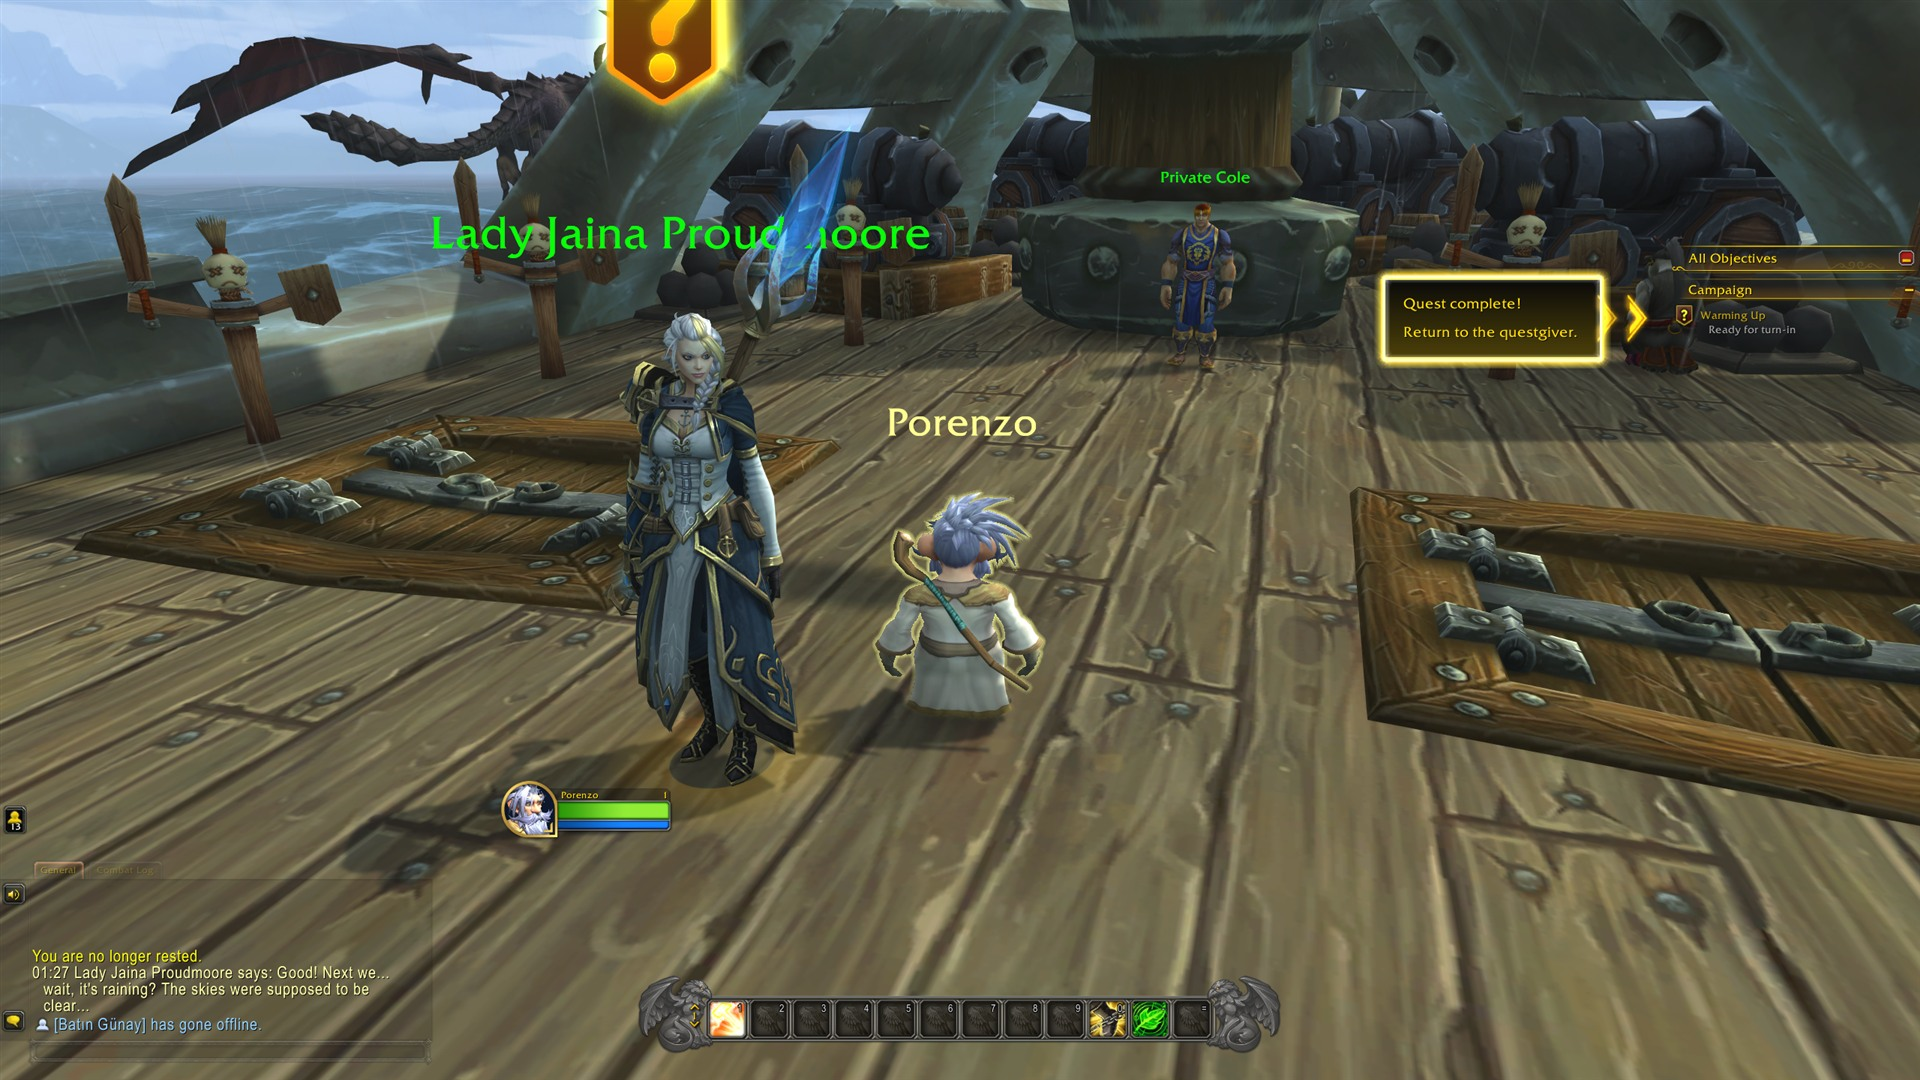
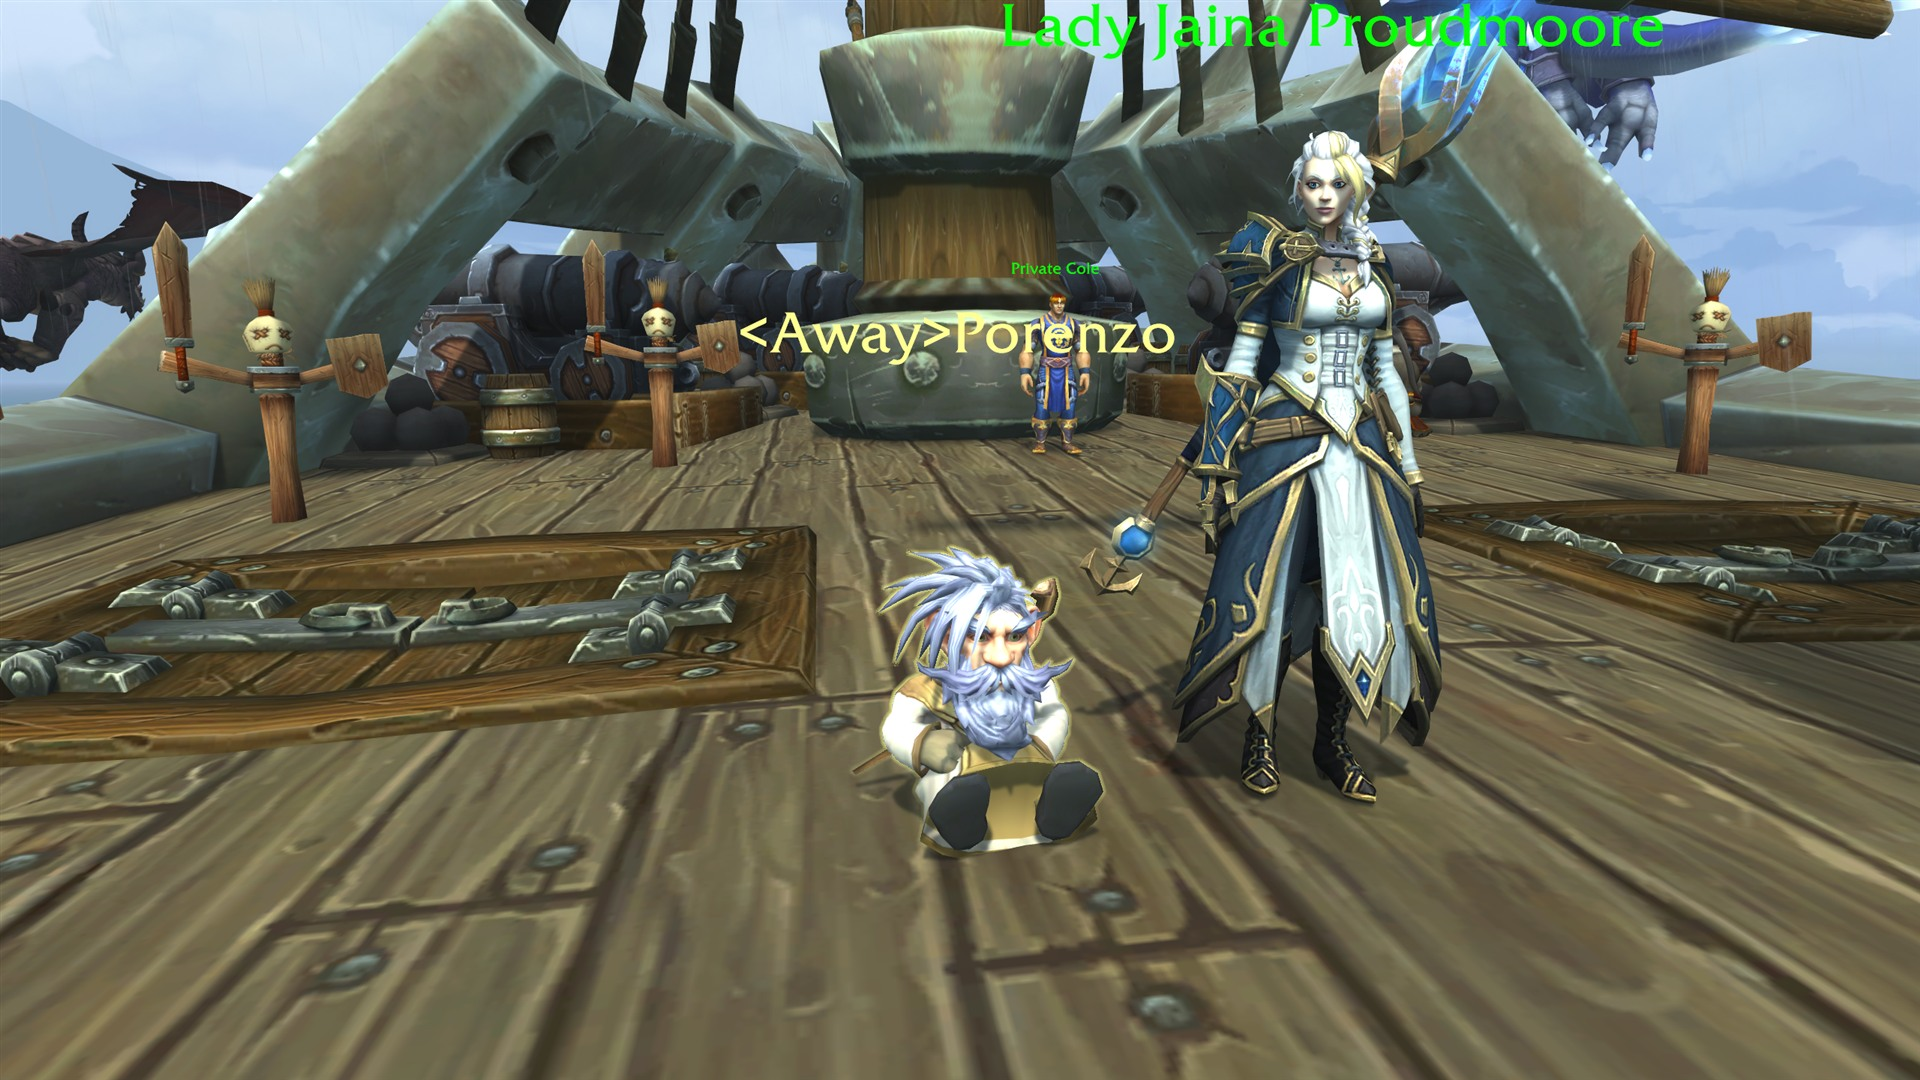
feat: report GPU memory, and a better on/off comparison
Video memory exhaustion is the failure mode that does not look like itself.
Past the per-process budget the driver evicts to system memory, every frame
waits on PCIe, and frame times explode while the GPU sits nearly idle --
which reads exactly like a slow neural pass and is nothing of the sort.
Measured in one session on the same build and scene: 40 fps at 24 ms with
memory comfortable, 6.5 fps at 153 ms with the card 91% full and 745 MB
spilled, with a process GPU counter reporting 8.8% utilisation throughout.

The Status page now shows used against budget, above the frame breakdown,
because when this fires the breakdown below it is a red herring.

The on/off comparison is retaken on character models rather than deck
planking -- hair, beard, cloth and a face, which is what neural rendering
is for. The caption says plainly that it also darkens the image and
flattens facial contrast, because it does.

diff --git a/src/manager/main.cpp b/src/manager/main.cpp
@@ -721,6 +721,44 @@ int WINAPI wWinMain(HINSTANCE inst, HINSTANCE, PWSTR, int show) {
                "in this tool can raise it.");
         }
 
+        // Video memory, before the frame breakdown, because when this is the
+        // problem the breakdown below is a red herring: it shows a huge GPU
+        // wait that is not GPU work at all, but the driver paging evicted
+        // resources over PCIe. Diagnosing that from frame times alone is
+        // near-impossible, so it gets said outright.
+        if (s.vramBudgetMb > 0) {
+          const bool over = s.vramUsedMb > s.vramBudgetMb;
+          const float ratio = static_cast<float>(s.vramUsedMb) /
+                              static_cast<float>(s.vramBudgetMb);
+          ImGui::Dummy(ImVec2(0.0f, 12.0f));
+          if (g_fonts.caption) ImGui::PushFont(g_fonts.caption);
+          ImGui::TextDisabled("GPU MEMORY");
+          if (g_fonts.caption) ImGui::PopFont();
+          ImGui::PushStyleColor(ImGuiCol_PlotHistogram,
+                                over        ? Rgb(g_colors.fail)
+                                : ratio > 0.9f ? Rgb(g_colors.warn)
+                                               : Rgb(g_colors.accent));
+          char label[64];
+          std::snprintf(label, sizeof(label), "%u / %u MB", s.vramUsedMb, s.vramBudgetMb);
+          ImGui::ProgressBar(ratio > 1.0f ? 1.0f : ratio, ImVec2(-1.0f, 20.0f), label);
+          ImGui::PopStyleColor();
+          if (over || ratio > 0.92f) {
+            ImGui::TextColored(Rgb(over ? g_colors.fail : g_colors.warn),
+                               "%s", over
+                                   ? "Out of GPU memory. This is almost certainly why the "
+                                     "overlay is slow."
+                                   : "GPU memory is nearly full.");
+            Hint("Past the budget the driver moves resources to system memory "
+                 "and every frame waits on the PCIe bus. It shows up below as a "
+                 "huge GPU wait even though the GPU is nearly idle, so it is "
+                 "easy to mistake for a slow neural pass.\n\n"
+                 "Close what else is using the card -- browsers, streaming and "
+                 "capture tools, and anything compositing a second monitor -- "
+                 "and lower the game's texture quality. Nothing in this tool "
+                 "can make room.");
+          }
+        }
+
         // Where the frame went, as a stacked bar. A frame rate on its own tells
         // you something is slow; this tells you which of four different things
         // it is, and they have four different answers.

diff --git a/src/common/core/GpuProfile.h b/src/common/core/GpuProfile.h
@@ -21,6 +21,25 @@ struct GpuInfo {
 // guess selects the wrong neural runtime variant.
 GpuArch ArchitectureFromDeviceId(uint32_t vendorId, uint32_t deviceId);
 
+// How much video memory this process is allowed, and how much it is using.
+//
+// Worth reporting because running past the budget is the single worst thing
+// that can happen to this pipeline, and it does not look like what it is: the
+// driver evicts resources to system memory, every frame then waits on PCIe
+// transfers, and the result is enormous frame times with the GPU almost idle.
+// That reads exactly like a slow neural pass and is nothing of the sort.
+//
+// Measured against the sidecar's own adapter. Windows reports a per-process
+// budget rather than the card's total, and the budget shrinks as other
+// applications take memory -- which is the case worth catching, because
+// nothing this program does causes it and no setting here fixes it.
+struct VideoMemory {
+  uint64_t budgetBytes = 0;
+  uint64_t usedBytes = 0;
+  bool OverBudget() const { return budgetBytes > 0 && usedBytes > budgetBytes; }
+};
+std::optional<VideoMemory> QueryVideoMemory(LUID adapter);
+
 // Spec GPU matrix: 4K on Blackwell, 1440p on Ada, nothing else supported.
 uint32_t DefaultInternalHeight(GpuArch arch);
 

diff --git a/src/common/core/GpuProfile.cpp b/src/common/core/GpuProfile.cpp
@@ -110,4 +110,28 @@ std::optional<GpuInfo> DetectPrimaryGpu() {
   return std::nullopt;
 }
 
+std::optional<VideoMemory> QueryVideoMemory(LUID adapter) {
+  ComPtr<IDXGIFactory4> factory;
+  if (FAILED(CreateDXGIFactory1(IID_PPV_ARGS(&factory)))) return std::nullopt;
+
+  ComPtr<IDXGIAdapter1> adapter1;
+  if (FAILED(factory->EnumAdapterByLuid(adapter, IID_PPV_ARGS(&adapter1)))) {
+    return std::nullopt;
+  }
+  ComPtr<IDXGIAdapter3> adapter3;
+  if (FAILED(adapter1.As(&adapter3))) return std::nullopt;
+
+  // LOCAL is the memory on the card. NON_LOCAL is system memory the driver may
+  // fall back to, and falling back to it is precisely the condition worth
+  // reporting, so the local segment is the one to ask about.
+  DXGI_QUERY_VIDEO_MEMORY_INFO info{};
+  if (FAILED(adapter3->QueryVideoMemoryInfo(0, DXGI_MEMORY_SEGMENT_GROUP_LOCAL, &info))) {
+    return std::nullopt;
+  }
+  VideoMemory out;
+  out.budgetBytes = info.Budget;
+  out.usedBytes = info.CurrentUsage;
+  return out;
+}
+
 }  // namespace sidecar

diff --git a/src/runtime/Pipeline.cpp b/src/runtime/Pipeline.cpp
@@ -278,6 +278,10 @@ void Pipeline::PublishStatus(const HudModel& model, const FrameBudget& budget) {
   status.hudVisible = hudVisible_.load(std::memory_order_acquire) ? 1u : 0u;
   status.width = dev_.bridge ? dev_.bridge->Width() : 0;
   status.height = dev_.bridge ? dev_.bridge->Height() : 0;
+  if (auto memory = QueryVideoMemory(gpu_.luid)) {
+    status.vramUsedMb = static_cast<uint32_t>(memory->usedBytes / (1024 * 1024));
+    status.vramBudgetMb = static_cast<uint32_t>(memory->budgetBytes / (1024 * 1024));
+  }
   status.p50Ms = model.p50Ms;
   status.p99Ms = model.p99Ms;
   status.frames = model.frames;

diff --git a/src/common/core/ControlChannel.h b/src/common/core/ControlChannel.h
@@ -63,6 +63,13 @@ struct SidecarStatus {
   double recordMs = 0.0;
   double presentWaitMs = 0.0;
   double gpuWaitMs = 0.0;
+
+  // Video memory, in megabytes. When used exceeds budget the driver is evicting
+  // to system memory and every frame is waiting on PCIe -- which produces huge
+  // frame times with the GPU nearly idle, and is indistinguishable from a slow
+  // neural pass unless you are told.
+  uint32_t vramUsedMb = 0;
+  uint32_t vramBudgetMb = 0;
   char passName[64] = {};
   char runtimeVariant[64] = {};
   char lastError[256] = {};

diff --git a/README.md b/README.md
@@ -20,15 +20,20 @@ Measured on an RTX 4080 at 2560×1440 against retail WoW: **p50 11.6 ms, p99
 
 ![DLSS 5 Neural Rendering, off and on](docs/screenshots/dlss-comparison.png)
 
-Retail WoW, RTX 4080, 2560×1440, shown at 2× on a patch of static geometry so
-the two halves line up pixel-for-pixel — the overlay was toggled between the two
-captures and nothing in the scene moved. Neural rendering softens aliasing along
-the plank edges and the metal fittings, and evens out the wood grain.
+Retail WoW, RTX 4080, 2560×1440, shown at 2×. The overlay was toggled between
+two captures a third of a second apart with the character parked, so the halves
+line up.
 
-**That is the size of the effect, and it is not dramatic.** It is presented at
-2× zoom for a reason. Judge it yourself with the one-click A/B in the app rather
-than from a screenshot; full frames are in
-[`docs/screenshots/`](docs/screenshots/) as `dlss-on.jpg` and `dlss-off.jpg`.
+Neural rendering smooths the hair and beard strands, softens the hard aliased
+outline around the model, and evens out the cloth. It also **darkens the image
+and flattens facial contrast** — look at the NPC's eyes and skin. That is a real
+side effect, not a compression artefact in this screenshot, and whether it is a
+fair trade is a matter of taste rather than something a README can settle.
+
+**It is presented at 2× zoom for a reason.** At 1:1, in motion, the effect is
+subtle. Judge it with the one-click A/B in the app rather than from a picture;
+full frames are in [`docs/screenshots/`](docs/screenshots/) as `dlss-on.jpg`
+and `dlss-off.jpg`.
 
 ![The manager's Status page](docs/screenshots/status.png)
 
@@ -159,6 +164,30 @@ beside **OVERLAY FPS** so you can see immediately which one is limiting you.
 If they are equal, you are capture-bound and no setting will help. It is worth
 checking whether a multi-monitor setup with mismatched refresh rates is dragging
 the compositor down to the slowest display.
+
+### Video memory is the thing that will actually ruin it
+
+Watch the **GPU MEMORY** bar on the Status page before you blame the neural
+pass. This is the failure that does not look like itself.
+
+Past the per-process budget the driver evicts resources to system memory and
+every frame waits on the PCIe bus. Frame times explode while the GPU sits
+*nearly idle* — on the development machine, measured within a single session:
+
+| GPU memory state | overlay | GPU wait |
+|---|---|---|
+| comfortable | 40 fps | 24 ms |
+| card ~91% full, 745 MB spilled to system RAM | **6.5 fps** | **153 ms** |
+
+Same build, same settings, same scene. Nothing about the pipeline changed. A
+process-level GPU utilisation counter showed the sidecar at *8.8%* while it was
+taking 153 ms a frame, which is the tell: that time is not compute.
+
+The card's memory is shared with everything else on the desktop, and the
+sidecar is rarely the biggest consumer — on the development machine the desktop
+compositor alone held 9.1 GB of 16. Close browsers, streaming and capture tools,
+and anything compositing a second monitor; lower the game's texture quality.
+**Nothing in this tool can make room**, which is exactly why it tells you.
 
 **Underneath that ceiling, two things were worth fixing:**
 
